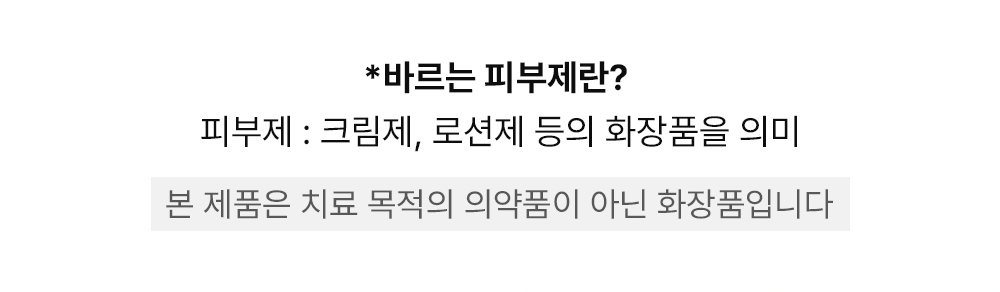
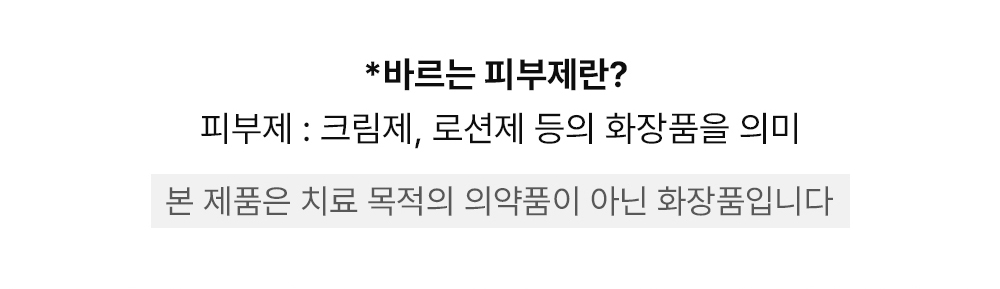
ㅋ

diff --git a/mask.html b/mask.html
@@ -32,6 +32,7 @@
             border: 0;
         }
 
+		
         /* 모바일에서는 화면 폭에 맞춤 */
         @media (max-width: 720px) {
             .detail-page {
@@ -47,7 +48,7 @@
 
 <body>
     <main class="detail-page">
-        <img src="images/mask_0.gif" alt="lip">
+        <img src="images/mask_00.gif" alt="lip">
         <img src="images/mask_1.jpg" alt="lip">
         <img src="images/mask_2.gif" alt="lip">
         <img src="images/mask_3.jpg" alt="lip">

diff --git a/cream.html b/cream.html
@@ -44,11 +44,12 @@
     </style>
 </head>
 
+	
 <body>
 
     <main class="detail-page">
 
-		        <img src="images/cream_0.gif" alt="Cream">
+		        <img src="images/cream_00.gif" alt="Cream">
         <img src="images/cream_1.jpg" alt="Cream">
         <img src="images/cream_2.gif" alt="Cream">
         <img src="images/cream_3.jpg" alt="Cream">

diff --git a/lip.html b/lip.html
@@ -44,6 +44,7 @@
     </style>
 </head>
 
+	
 <body>
 
     <main class="detail-page">

diff --git a/lotion.html b/lotion.html
@@ -44,6 +44,7 @@
     </style>
 </head>
 
+	
 <body>
 
     <main class="detail-page">
